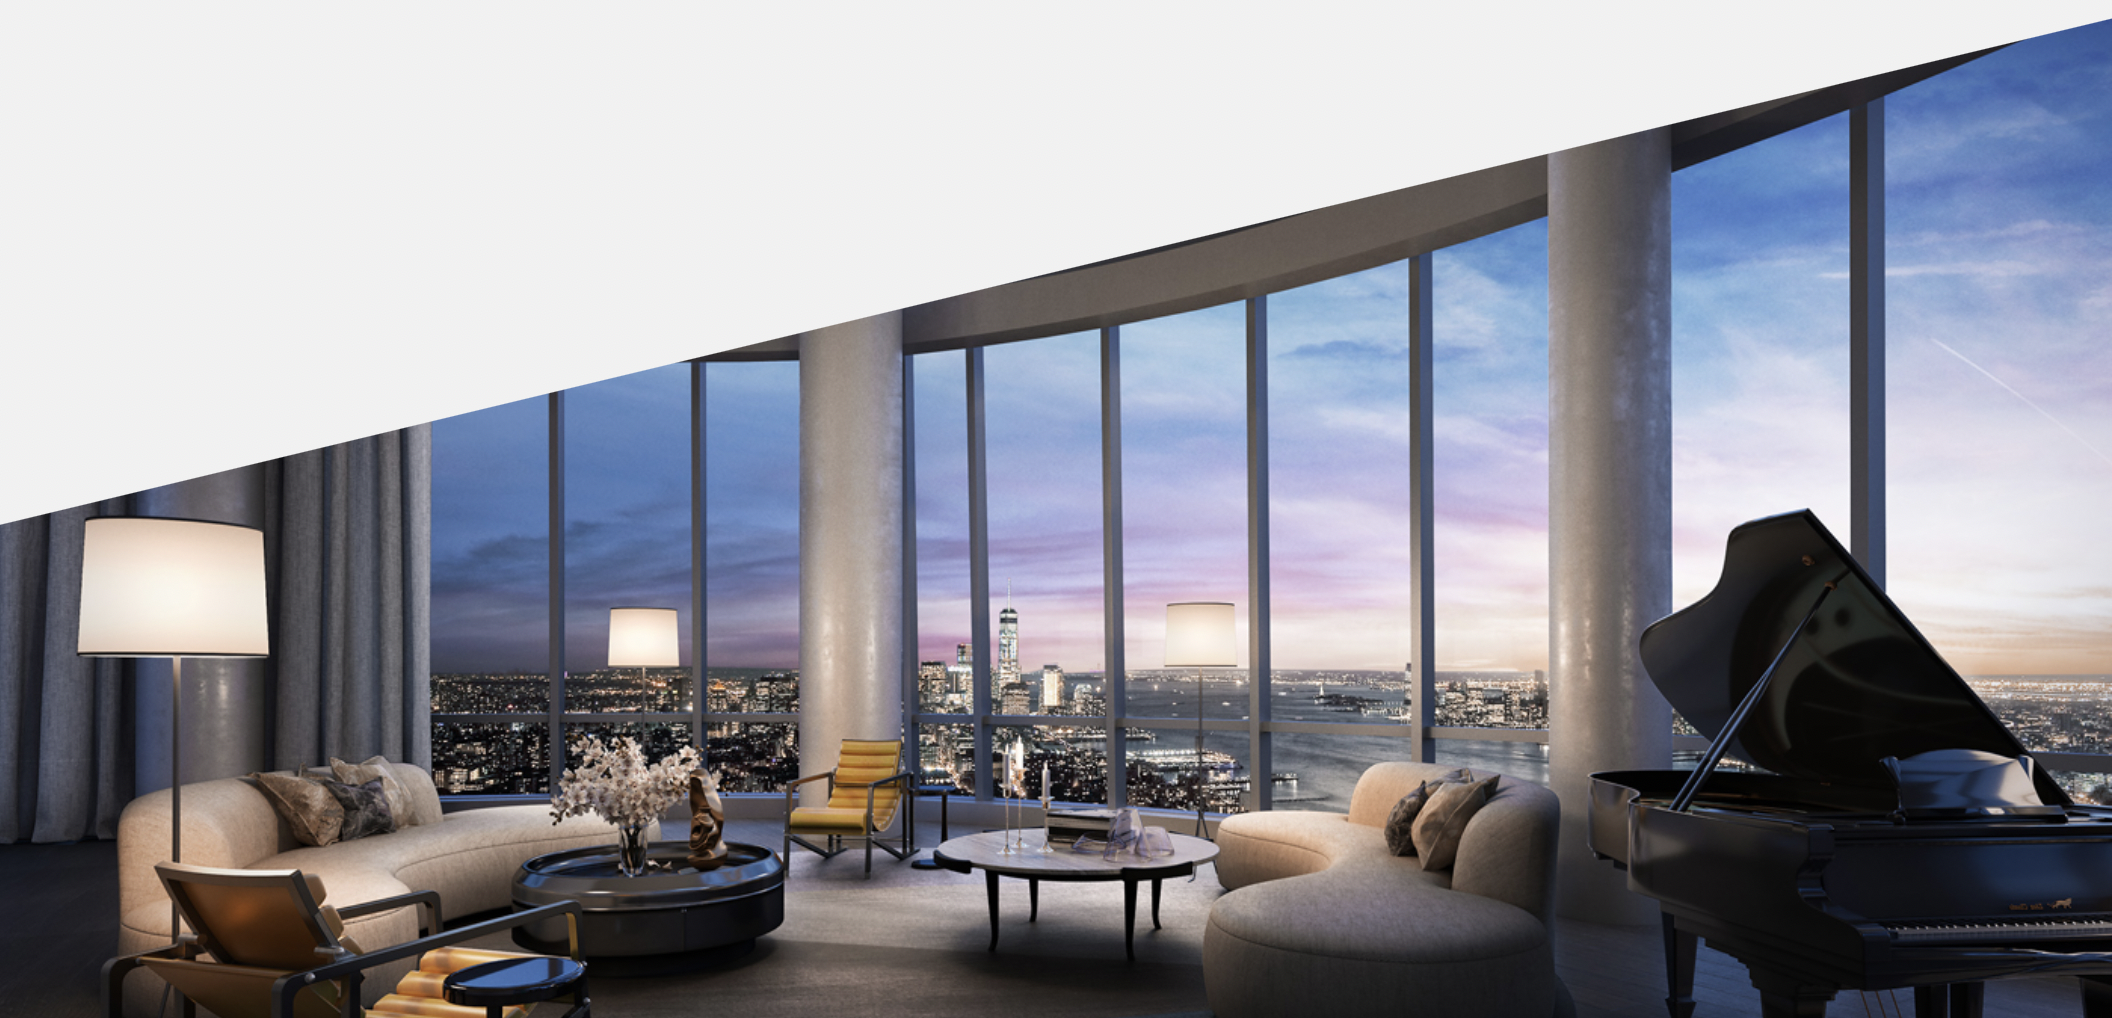
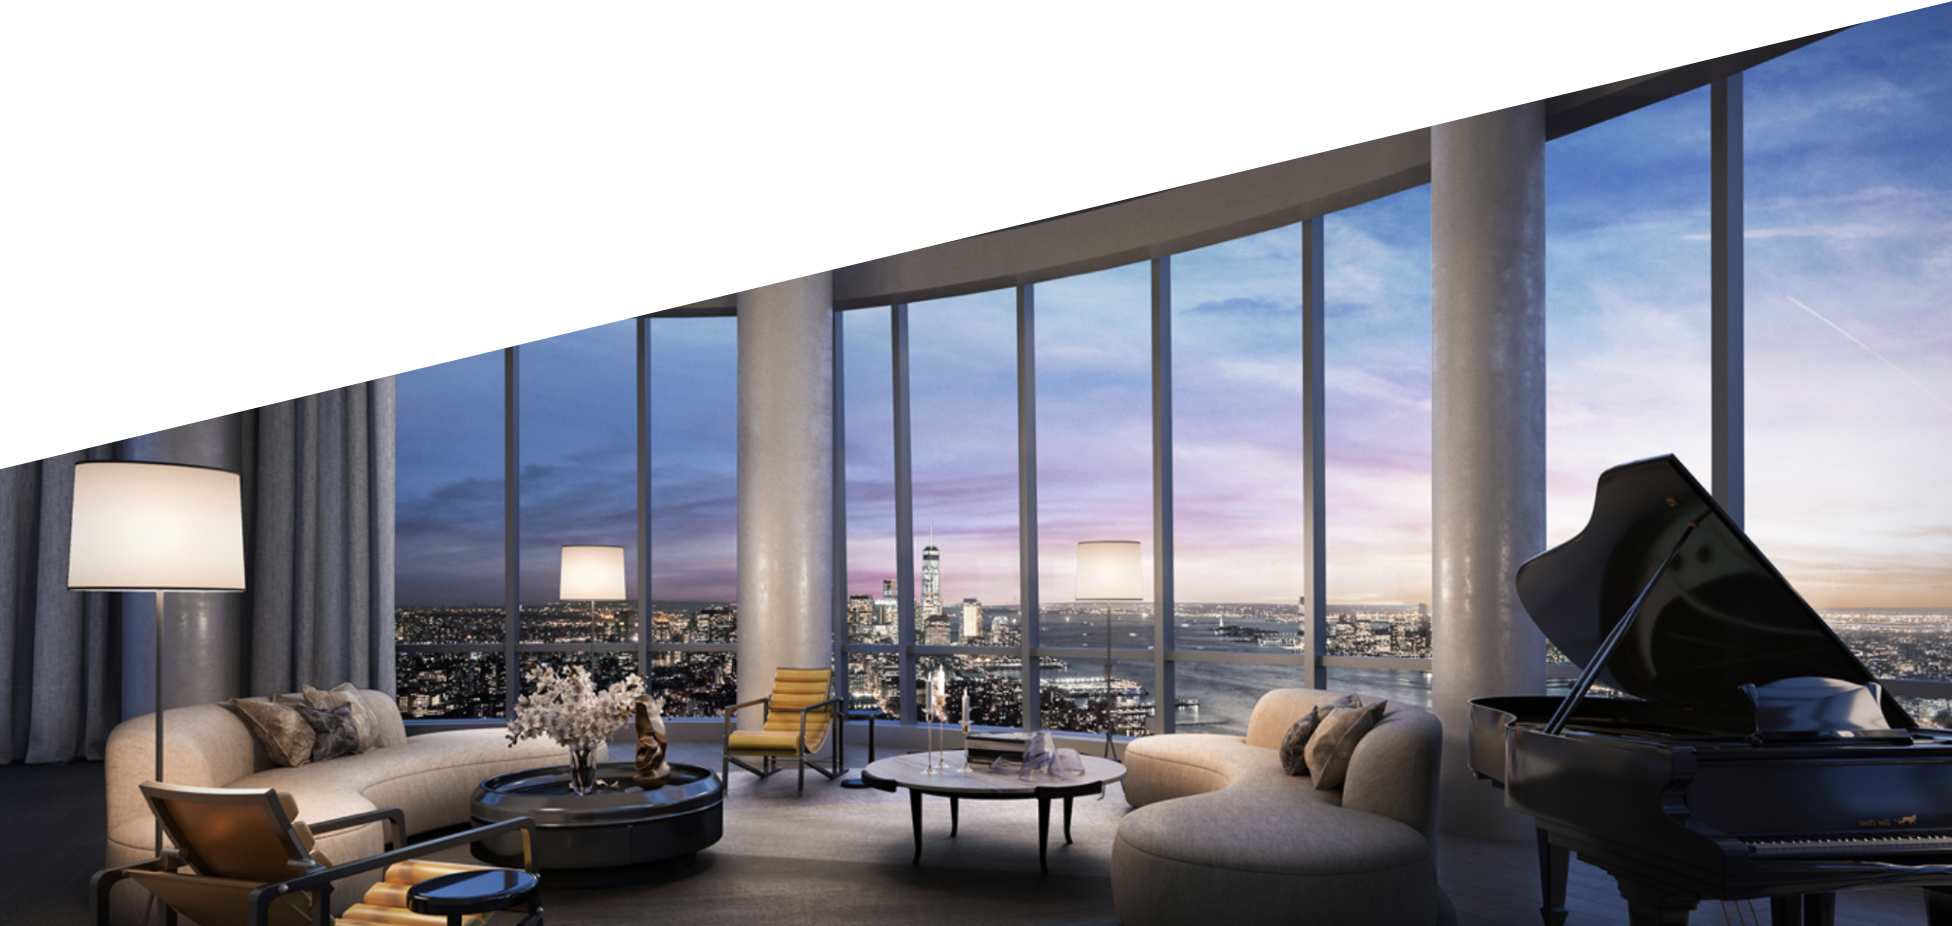
navbar fixet home og contact

diff --git a/CSS/contact.css b/CSS/contact.css
@@ -20,7 +20,7 @@ body {
 }
 
 /* Making icon appear and navBar hide at certain width */
-@media screen and (max-width: 780px) {
+@media screen and (max-width: 800px) {
     .navBar .navListBullets {display: none;}
     .navBar a.icon {
         float: left;
@@ -103,20 +103,21 @@ body {
 
 /* The design of the login button in the navigation bar: */
 .login-button {
-    border: 2px solid black;
     font-size: 20px;
-    color: black;
-    padding: 14px;
+    color: white;
+    padding: 15px;
     cursor: pointer;
     position: absolute;
-    right: 10px;
-    top: 10px;
-    background-color: white;
+    font-family: "Palatino";
+    right: 20px;
+    top: 12px;
+    border-style: none;
+    background-color: rgb(118,210,187,0.8);
 }
 
 .login-button:hover {
-    border: 2px solid #76D2BB;
-    color: #76D2BB;
+    background-color: rgb(118,210,187);
+    
 }
 
 /* The position of the popup box: */
@@ -149,8 +150,9 @@ body {
 .login-container .cancel {
     border: none;
     float: right;
+    font-family: "Palatino";
     font-size: 20px;
-    margin-top: 2px;
+    margin-top: 5px;
     cursor: pointer;
 }
 
@@ -203,10 +205,6 @@ hr {
 
 #aboutText {
     align-content: center;
-    margin-top: 0%;
-    margin-left: 1%;
-    padding-left: 1%;
-    padding-right: 1%;
     width: 60%;
     height: 510px;
     float: right;
@@ -243,14 +241,9 @@ hr {
 }
 
 #locationText {
-    margin-top: 1%;
-    margin-left: 1%;
-    margin-bottom: 1%;
-    padding-left: 1%;
-    padding-right: 1%;
+    margin-left: 10px;
+    margin-bottom: 30px;
     width: 30%;
-    height: 450px;
-    border-style: ;
 }
 
 
@@ -289,4 +282,32 @@ a {
 img {
     margin-left: -10px;
     margin-right: -10px;
+    margin-top: -100px;
 }
+
+/* Footer style */
+.footer {
+    color: black;
+    bottom: -10%;
+    padding: 50px;
+    text-align: center;
+    width: 102%;
+    margin: -10px;
+
+}
+
+.footer a {
+    margin-top: 0;
+    text-decoration: none;
+    color: black;
+    font-size: small;
+}
+
+.footer a:hover {
+    font-weight: bolder;
+}
+
+.footer p {
+    margin-top: 0;
+    margin-bottom: 0;
+    font-size: small;

diff --git a/CSS/home.css b/CSS/home.css
@@ -1,10 +1,10 @@
 body {
-    background-color: #f1f1f1;
-    font-family: "Palatino", sans-serif;
+    background-color: white;
+    font-family: "Palatino", "Palatino Linotype", sans-serif;
 }
 
 p, li, a, * {
-    font-family: "Palatino", sans-serif;
+    font-family: "Palatino", "Palatino Linotype", sans-serif;
 }
 
 
@@ -27,13 +27,13 @@ p, li, a, * {
         color: white;
         font-size: 24px;
         position: absolute;
-        top: 10px;
-        left: 20px;
+        top: 12px;
+        left: 230px;
         cursor: pointer;
     }
 
     /* Making icon appear and navBar hide at certain width */
-    @media screen and (max-width: 600px) {
+    @media screen and (max-width: 800px) {
         .navBar .navListBullets {display: none;}
         .navBar a.icon {
             float: left;
@@ -101,6 +101,22 @@ p, li, a, * {
     .navListBullets .NLB:hover {
         background-color: rgb(291,291,291,0.2);
     }
+
+    #navBarTitleHome {
+        color: white;
+        font-size: 22px;
+        font-weight: 900;
+        display: inline-block;
+        padding: 14px 16px;
+        margin: auto;
+    }
+
+
+
+
+
+
+
 
 /* Below is the styling for the popup login button */
     * {box-sizing: border-box;}
@@ -203,6 +219,7 @@ p, li, a, * {
 
 #homeText {
     margin-bottom: 50px;
+    padding-bottom: 50px;
 }
 
 img {
@@ -210,10 +227,15 @@ img {
     margin-left: -2%;
 }
 
+hr {
+    width: 80%;
+    border-color: #76D2BB;
+}
+
+
 /* Footer style */
 .footer {
-    color: white;
-    background-color: black;
+    color: black;
     bottom: -10%;
     padding: 50px;
     text-align: center;
@@ -225,8 +247,12 @@ img {
 .footer a {
     margin-top: 0;
     text-decoration: none;
-    color: white;
+    color: black;
     font-size: small;
+}
+
+.footer a:hover {
+    font-weight: bolder;
 }
 
 .footer p {

diff --git a/HTML/contact.html b/HTML/contact.html
@@ -79,6 +79,7 @@
         </p1>
     </div>
 
+    <div class="contactLeftSide">
     <div id="contactText">
         <p>Lorem ipsum dolor sit amet, consectetuer adipiscing elit, sed diam nonummy nibh
             euismod tincidunt ut laoreet dolore magna aliquam erat volutpat. Ut wisi enim
@@ -86,10 +87,8 @@
             ut aliquip</p>
     </div>
 
-
     <div id="locationText">
         <h3 align="center">Location</h3>
-
 
         <!-- Embed code fra google der viser kortet frem -->
         <div class="googleMaps">
@@ -97,7 +96,6 @@
         </div>
 
     </div>
-
 
     <button class="open-ContactButton" onclick="openContactForm()">Contact me</button>
 
@@ -123,7 +121,7 @@
             <button type="button" class="btn cancel" onclick="closeContactForm()">Close</button>
         </form>
     </div>
-
+    </div>
 
 
     <div class="bottomImageContact">
@@ -133,13 +131,13 @@
     <div class="footer">
         <footer>
             <p>Posted by: Gruppe31</p>
-            <p>Contact information: <a href="mailto:Gruppe31@gmail.com">
+            </br>
+            <p>Contact information: <br/> <a href="mailto:Gruppe31@gmail.com">
                 Gruppe31@gmail.com</a>
-               - <a href="tel:+4512345678">+45 12 34 56 78</a>
-                <br/>
+                <a href="tel:+4512345678">+45 12 34 56 78</a>
+                <br/><br/>
                 <a href="#top">Back to the top</a>
             </p>
-
         </footer>
     </div>
 </div>

diff --git a/HTML/home.html b/HTML/home.html
@@ -18,6 +18,7 @@
         <!-- Navigation bar -->
         <div class="navBar" id="myNavBar">
             <ul class="navList" id="jsMenu">
+                <li class="navListBullets" id="navBarTitleHome">VIVA LA VIVIAN</li>
                 <li class="navListBullets"><a class="NLB" href="home.html">Home</a></li>
                 <li class="navListBullets"><a class="NLB" href="booking.html">Booking</a></li>
                 <li class="navListBullets"><a class="NLB" href="gallery.html">Gallery</a></li>
@@ -101,18 +102,23 @@
     videntur parum clari, fiant sollemnes in futurum.
 </div>
 
+
+<hr>
+
 <!-- Footer -->
 <div class="footer">
     <footer>
         <p>Posted by: Gruppe31</p>
-        <p>Contact information: <a href="mailto:Gruppe31@gmail.com">
+        </br>
+        <p>Contact information: <br/> <a href="mailto:Gruppe31@gmail.com">
             Gruppe31@gmail.com</a>
-            - <a href="tel:+4512345678">+45 12 34 56 78</a>
-            <br/>
+            <a href="tel:+4512345678">+45 12 34 56 78</a>
+            <br/><br/>
             <a href="#top">Back to the top</a>
         </p>
 
     </footer>
+</div>
 </body>
 
 <script src="../Javascript/login_navbar.js"></script>

diff --git a/CSS/contactForm.css b/CSS/contactForm.css
@@ -27,16 +27,19 @@ input[type=text], input[type=number], textarea, input[type=email] {
 
 /* Button used to open the contact form */
 .open-ContactButton {
-    background-color: #000000;
+    background-color: rgb(118,210,187,0.8);
     color: white;
-    padding: 15px 15px;
-    border: none;
+    padding: 15px;
+    width: 30%;
     cursor: pointer;
-    position: fixed;
-    bottom: 15px;
-    left: 120px;
-    width: 200px;
+    position: absolute;
+    left: 10px;
     font-size: medium;
+    border-style: none;
+}
+
+.open-ContactButton:hover {
+    background-color: rgb(118,210,187);
 }
 
 /* The popup form - hidden by default */
